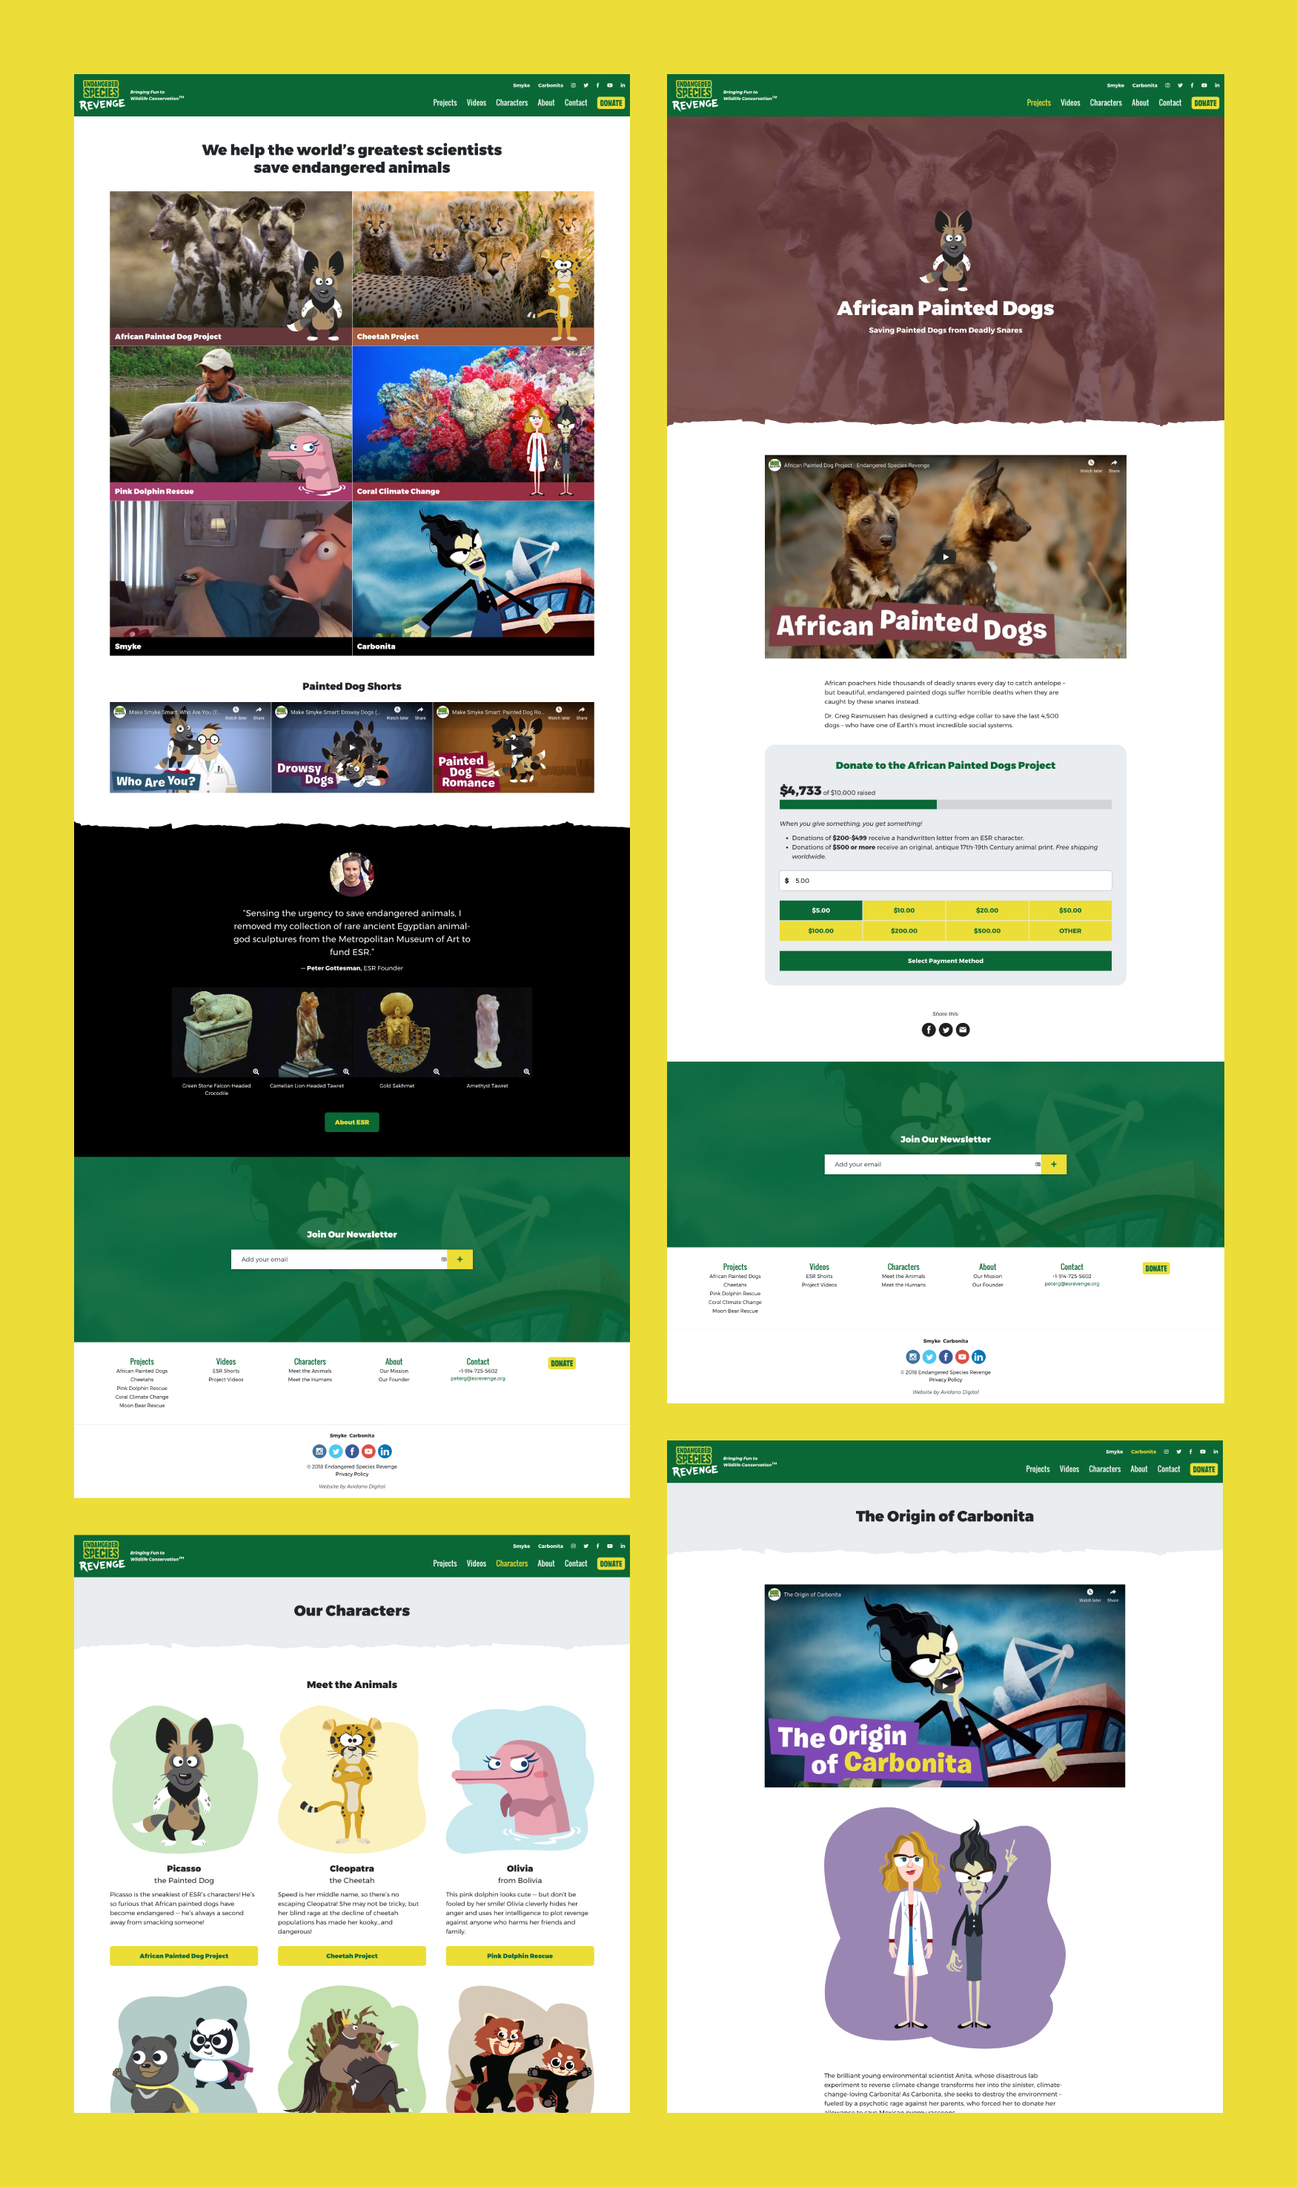
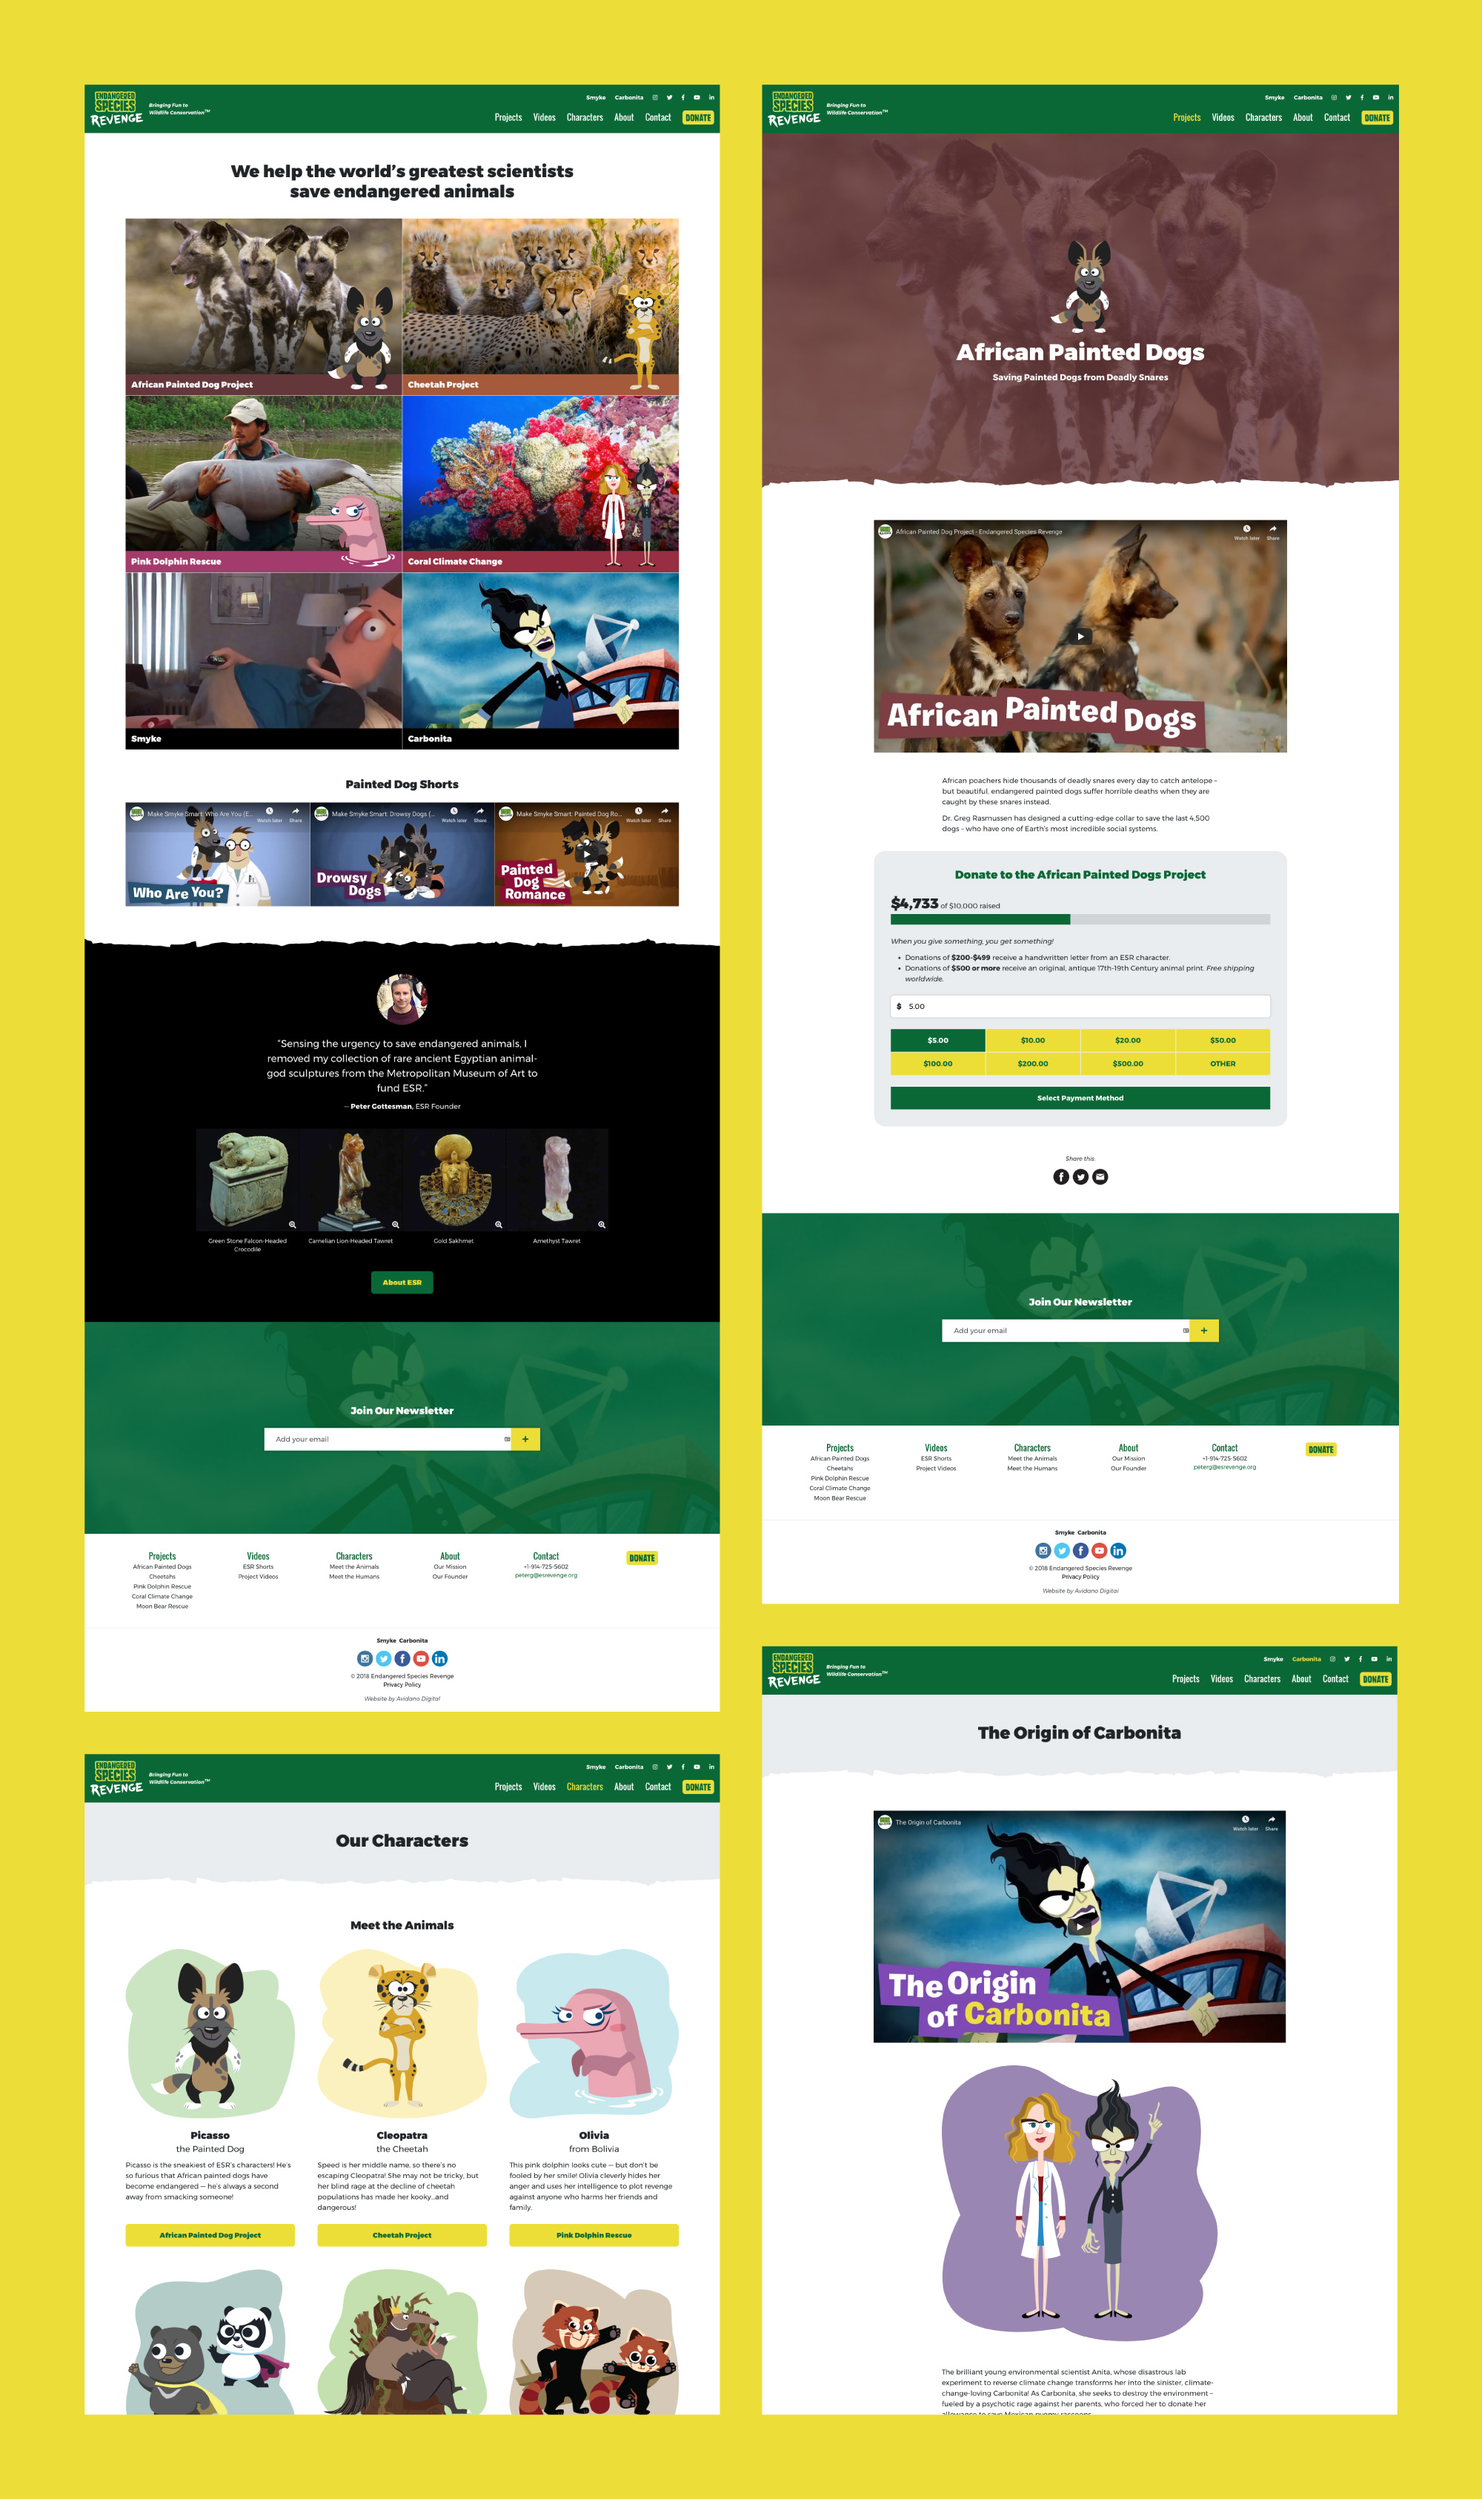
added footer

diff --git a/src/pages/resume.js b/src/pages/resume.js
@@ -18,11 +18,21 @@ const Resume = ({ data }) => {
         let description = job.description
 
         return (
-            <div className="border-top padding-y-3">
+            <div className="padding-y-3">
                 
-                <div key={`${job}_${index}`} className="grid grid--column-8--lg gap-3">
+                <div key={`${job}_${index}`} className="grid justify-content-end grid--column-4--lg gap-3">
 
-                    <div className="grid__colspan-3">
+                    {index === 0 ? (
+
+                    <h2 className="h6 grid__colspan-1--lg">
+                        Employment
+                    </h2>
+
+                    ) : (
+                        <span className='grid__colspan-1--lg'></span>
+                    )}
+
+                    <div className="grid__colspan-1--lg font-size-md">
                         <p className="margin-bottom-2">
                             <strong className="display-block">
                                 {company}
@@ -38,14 +48,13 @@ const Resume = ({ data }) => {
 
                     </div>
 
-                    <div className="grid__colspan-5">
+                    <div className="grid__colspan-2--lg">
 
                     <MDXRenderer>
                         {description.body}
                     </MDXRenderer> 
 
                     </div>
-
 
                 </div>
             
@@ -55,15 +64,118 @@ const Resume = ({ data }) => {
     
     return (
         <Fragment>
+
             <Header />
 
-            <div className="container narrow medium--lg padding-y-3">
+            <main className="container narrow medium--lg overflow-hidden margin-y-4">
 
-                <h2 className="h6 text-transform-uppercase">Employment</h2>
+                <section className="border-top padding-y-2">
 
-                {jobList}
+                    {jobList}
 
-            </div>
+                </section>
+                
+                <section className="border-top padding-y-3">
+
+                    <div className="grid grid--column-4--lg gap-3">
+
+                        <h2 className="h6 grid__colspan-1--lg">
+                            Education
+                        </h2>
+
+                        <div className="grid__colspan-1--lg font-size-md">
+                            <p className="margin-bottom-2">
+                                <strong className="display-block">
+                                    The Creative Center
+                                </strong>
+                                <span className="display-block font-size-md">
+                                    College of Art and Design
+                                </span>
+                            </p>
+
+                        </div>
+
+                        <div className="grid__colspan-2">
+
+                            <p>
+                                Graduated with an Associate of Occupational Studies Degree in Graphic Design and Illustration.
+                            </p>
+
+                        </div>
+
+                    </div>
+
+                </section>
+
+                <section className="border-top padding-y-3">
+
+                    <div className="grid grid--column-4--lg gap-3">
+
+                        <h2 className="h6 grid__colspan-1--lg">
+                            Skills
+                        </h2>
+                        
+                        <div className="grid__colspan-1 font-size-md">
+
+                            <ul>
+                                <li>
+                                    Content Strategy
+                                </li>
+                                <li>
+                                    UX/Interaction Design
+                                </li>
+                                <li>
+                                    Front-end Development
+                                </li>
+                                <li>
+                                    Design Systems
+                                </li>
+                            </ul>
+                            
+                        </div>
+
+                        <div className="grid__colspan-1 font-size-md">
+
+                            <ul>
+                                <li>
+                                    Branding/Identity Design
+                                </li>
+                                <li>
+                                    Graphic Design
+                                </li>
+                                <li>
+                                    Typography
+                                </li>
+                                <li>
+                                    Illustration/Fine Art
+                                </li>
+                            </ul>
+                            
+                        </div>
+
+                        <div className="grid__colspan-1 font-size-md">
+
+                            <ul>
+                                <li>
+                                    Communication/Writing  
+                                </li>
+                                <li>
+                                    Teaching and Mentoring
+                                </li>
+                                <li>
+                                    Agile Methodology
+                                </li>
+                            </ul>
+
+                        </div>
+
+                    </div>
+
+                </section>
+
+            </main>
+
+
         </Fragment>
     );
 }

diff --git a/src/components/portfolio/FigureSingleBlock.js b/src/components/portfolio/FigureSingleBlock.js
@@ -6,7 +6,7 @@ import LightBox from './Lightbox';
 
 const FigureSingleBlock = ({ children, ...props }) => {
 
-    const { caption } = props;
+    const { caption, lightbox } = props;
 
     const lightboxID = uuidv4();
 
@@ -21,15 +21,25 @@ const FigureSingleBlock = ({ children, ...props }) => {
 
         targetLightbox.classList.remove('shown');
     }
-    
+        
     return (
         <Fragment>
 
             <figure className="medium margin-y-5">
 
+                {lightbox ? (
+
                 <div className="zoomable" onClick={handleOpen}>
                     {children}
                 </div>
+
+                ) : (
+
+                <Fragment>
+                    {children}
+                </Fragment>
+
+                )}
 
                 {caption != null && (
                     <figcaption className="container narrow font-size-md">
@@ -43,18 +53,23 @@ const FigureSingleBlock = ({ children, ...props }) => {
 
             </figure>
 
+            {lightbox && (
+
             <LightBox
                 id={lightboxID}
                 handleClose={handleClose}>
                 {children}
             </LightBox>
+            
+            )}
 
         </Fragment>
     );
 }
 
 FigureSingleBlock.defaultProps = {
-    caption: null
+    caption: null,
+    lightbox: false
 }
 
 export default FigureSingleBlock;

diff --git a/src/pages/index.js b/src/pages/index.js
@@ -1,8 +1,6 @@
-import React, {Fragment, useEffect } from 'react';
+import React, {Fragment } from 'react';
 
 import { Link } from 'gatsby';
-import { StaticImage } from 'gatsby-plugin-image';
-import { graphql } from 'gatsby';
 
 import Header from '../components/Header.js';
 
@@ -16,13 +14,14 @@ const Home = () => {
             
         <section className="container medium align-self-center text-align-center">
 
-          <h1 className="banner-headline">
+          <h1 className="banner-headline font-weight-bold margin-bottom-4">
             I seek to inspire empathy and inclusion through accessible experience and interaction design.
           </h1>
 
-          <a class="button button--outline margin-y-4" href="#1">
-            See my work
-          </a>
+          <Link class="button button--outline button--has-icon" to="/portfolio">
+              <span class="button__text">See my work</span>
+              <span class="icon icon-arrow-right"></span>
+          </Link>
 
         </section>
 

diff --git a/src/natura11y/modules/typography/_style.scss b/src/natura11y/modules/typography/_style.scss
@@ -66,7 +66,7 @@ In this file:
     // Banner Headline
 
     --banner-headline-font-size: calc(var(--body-font-size) * 2.75);
-    --banner-headline-font-weight: var(--body-font-weight-normal);
+    --banner-headline-font-weight: var(--body-font-weight-bold);
 
     // Paragraph
 
@@ -81,7 +81,6 @@ In this file:
     }
 }
 
-
 //////////////////////////////////////////////
 // C. Font Weight Utilities
 //////////////////////////////////////////////
@@ -94,7 +93,7 @@ $font-weights: (
 
 @each $key, $value in $font-weights {
     .font-weight-#{$key} {
-        font-weight: #{$value};
+        font-weight: #{$value} !important;
     }
 }
 

diff --git a/src/templates/portfolioSingle.js b/src/templates/portfolioSingle.js
@@ -41,16 +41,16 @@ const portfolioSingle = ({ data }) => {
       
         <Header />
       
-        <div className="container medium text-align-center">
+        <main className="container medium text-align-center">
 
-          <h1 class="banner-headline margin-y-4">{title}</h1>
+          <h1 class="banner-headline font-weight-normal margin-y-4">{title}</h1>
 
             <GatsbyImage
               image={marqueeImage}
               alt=""
             />
 
-        </div>
+        </main>
       
       </div>
         

diff --git a/src/components/Footer.js b/src/components/Footer.js
@@ -1,0 +1,20 @@
+import React from 'react'
+
+const Footer = () => {
+  return (
+    <footer class="container narrow medium--lg padding-y-2 font-size-sm">
+
+        <div class="display-flex justify-content-between">
+            <span>
+                © Copyright <span class="copyright-year"></span>. All rights resereved.
+            </span>
+            <a href="#" data-scroll="top">
+                Back to Top
+            </a>
+        </div>
+        
+    </footer>
+  )
+}
+
+export default Footer;

diff --git a/src/natura11y/theme/_style.scss b/src/natura11y/theme/_style.scss
@@ -64,8 +64,13 @@ main {
 // C. Lightbox
 //////////////////////////////////////////////
 
+.zoomable{
+    transition: opacity 0.25s linear;
+}
+
 .zoomable:hover {
     cursor: zoom-in;
+    opacity: 0.8;
 }
 .lightbox,
 .lightbox__container{  
@@ -100,7 +105,7 @@ main {
     display: flex;
     justify-content: center;
 
-    margin: var(--spacer-2);
+    margin: var(--spacer-3);
 }
 
 .lightbox__container {

diff --git a/src/components/Layout.js b/src/components/Layout.js
@@ -2,6 +2,8 @@ import React, { Fragment, useEffect, useState } from 'react';
 
 import { useStaticQuery, graphql } from 'gatsby';
 
+import Footer from './Footer';
+
 import { Helmet } from 'react-helmet';
 
 import '../icons/natura11y-icons.css';
@@ -104,6 +106,8 @@ const Layout = ({ children }) => {
         </div>
         
         {children}
+
+        <Footer />
 
       </div>
 

diff --git a/src/components/Header.js b/src/components/Header.js
@@ -5,7 +5,8 @@ import { Link } from 'gatsby';
 const Header = () => {
 
   const activeStyle = {
-    'fontWeight': 'var(--body-font-weight-bold)'
+    'fontWeight': 'var(--body-font-weight-bold)',
+    'text-decoration': 'underline'
   }
 
   return (
